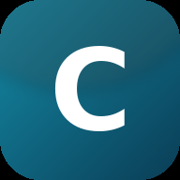
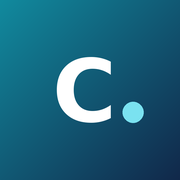
Make Soroka installable as an app (PWA)
Adds a web app manifest, app icons, an offline service worker and an
Install button in settings, so Soroka can be added to a phone or
desktop home screen and open in its own window.

Claude-Session: https://claude.ai/code/session_015nCpm9ScXMb1UahTwuRQ2A

diff --git a/sw.js b/sw.js
@@ -1,25 +1,31 @@
-/* Сервис-воркер нужен только для того, чтобы «Сороку» можно было установить как приложение.
-   Он НЕ кэширует страницу и запросы к серверу: всё берётся из сети, чтобы обновления
-   приходили сразу и не повторилась проблема со «старой версией». Кэшируются лишь иконки. */
-const ICONS = "soroka-icons-v1";
-const ASSETS = ["./icon-192.png", "./icon-512.png", "./icon-512-maskable.png", "./apple-touch-icon.png"];
+/* Сорока: сервис-воркер нужен, чтобы сайт ставился как приложение и открывался без сети.
+   Страницу всегда сначала берём из сети, поэтому обновления приходят сразу;
+   запросы к базе и библиотекам сюда не попадают вовсе. */
+const CACHE = "soroka-v1";
+const SHELL = ["/", "/manifest.webmanifest", "/icon-192.png", "/icon-512.png"];
 
 self.addEventListener("install", (e) => {
+  e.waitUntil(caches.open(CACHE).then((c) => c.addAll(SHELL)).catch(() => {}));
   self.skipWaiting();
-  e.waitUntil(caches.open(ICONS).then((c) => c.addAll(ASSETS)).catch(() => {}));
 });
 
 self.addEventListener("activate", (e) => {
-  e.waitUntil(
-    caches.keys().then((keys) => Promise.all(keys.filter((k) => k !== ICONS).map((k) => caches.delete(k))))
-      .then(() => self.clients.claim())
-  );
+  e.waitUntil(caches.keys().then((keys) => Promise.all(keys.filter((k) => k !== CACHE).map((k) => caches.delete(k)))));
+  self.clients.claim();
 });
 
 self.addEventListener("fetch", (e) => {
-  const url = new URL(e.request.url);
-  // только свои иконки отдаём из кэша; всё остальное — всегда из сети
-  if (e.request.method === "GET" && url.origin === location.origin && /\/(icon-\d|icon-512-maskable|apple-touch-icon)/.test(url.pathname)) {
-    e.respondWith(caches.match(e.request).then((r) => r || fetch(e.request)));
-  }
+  const req = e.request;
+  if (req.method !== "GET") return;
+  const url = new URL(req.url);
+  if (url.origin !== self.location.origin) return;
+  e.respondWith(
+    fetch(req).then((res) => {
+      if (res.ok && (req.mode === "navigate" || /\.(png|webmanifest)$/.test(url.pathname))) {
+        const copy = res.clone();
+        caches.open(CACHE).then((c) => c.put(req.mode === "navigate" ? "/" : req, copy));
+      }
+      return res;
+    }).catch(() => caches.match(req.mode === "navigate" ? "/" : req).then((hit) => hit || caches.match("/")))
+  );
 });

diff --git a/index.html b/index.html
@@ -4,6 +4,13 @@
 <meta charset="utf-8">
 <meta name="viewport" content="width=device-width, initial-scale=1, viewport-fit=cover">
 <title>Сорока</title>
+<link rel="manifest" href="/manifest.webmanifest">
+<meta name="theme-color" content="#0b7284">
+<link rel="icon" type="image/png" href="/favicon.png">
+<link rel="apple-touch-icon" href="/apple-touch-icon.png">
+<meta name="apple-mobile-web-app-capable" content="yes">
+<meta name="mobile-web-app-capable" content="yes">
+<meta name="apple-mobile-web-app-title" content="Сорока">
 <link rel="manifest" href="manifest.webmanifest">
 <meta name="theme-color" content="#0b6f86">
 <meta name="mobile-web-app-capable" content="yes">
@@ -673,6 +680,10 @@ if ("serviceWorker" in navigator && location.protocol === "https:") {
   <form class="dlg" id="profileForm" novalidate>
     <h2>Настройки</h2>
 
+    <button class="pick" type="button" id="installRow" hidden>
+      <span class="ico" id="icoInstall"></span>
+      <span><b>Установить приложение</b><span class="small muted">Сорока появится на экране телефона или компьютера отдельной иконкой</span></span>
+    </button>
     <button class="pick" type="button" id="myProfileRow">
       <span id="myProfileAv"></span>
       <span><b id="myProfileName"></b><span class="small muted">Посмотреть свой профиль так, как его видят другие</span></span>
@@ -3315,11 +3326,26 @@ $("btnNewGroup").append(icon("plus"));
 $("icoGroup").append(icon("group"));
 $("icoChannel").append(icon("horn"));
 $("btnAdmin").append(icon("shield"));
+$("icoInstall").append(icon("plus"));
 $("icoSupport").append(icon("help"));
 $("icoMarket").append(icon("shop"));
 $("btnAttach").append(icon("clip"));
 $("btnSend").append(icon("send"));
 $("back").append(icon("back"));
+// установка как приложение: браузер сам решает, когда это можно предложить
+let installPrompt = null;
+window.addEventListener("beforeinstallprompt", (e) => { e.preventDefault(); installPrompt = e; $("installRow").hidden = false; });
+window.addEventListener("appinstalled", () => { installPrompt = null; $("installRow").hidden = true; toast("Сорока установлена"); });
+$("installRow").addEventListener("click", async () => {
+  if (!installPrompt) return;
+  installPrompt.prompt();
+  try { await installPrompt.userChoice; } catch (e) {}
+  installPrompt = null;
+  $("installRow").hidden = true;
+});
+if ("serviceWorker" in navigator && location.protocol === "https:") {
+  navigator.serviceWorker.register("/sw.js").catch(() => {});
+}
 </script>
 </body>
 </html>
